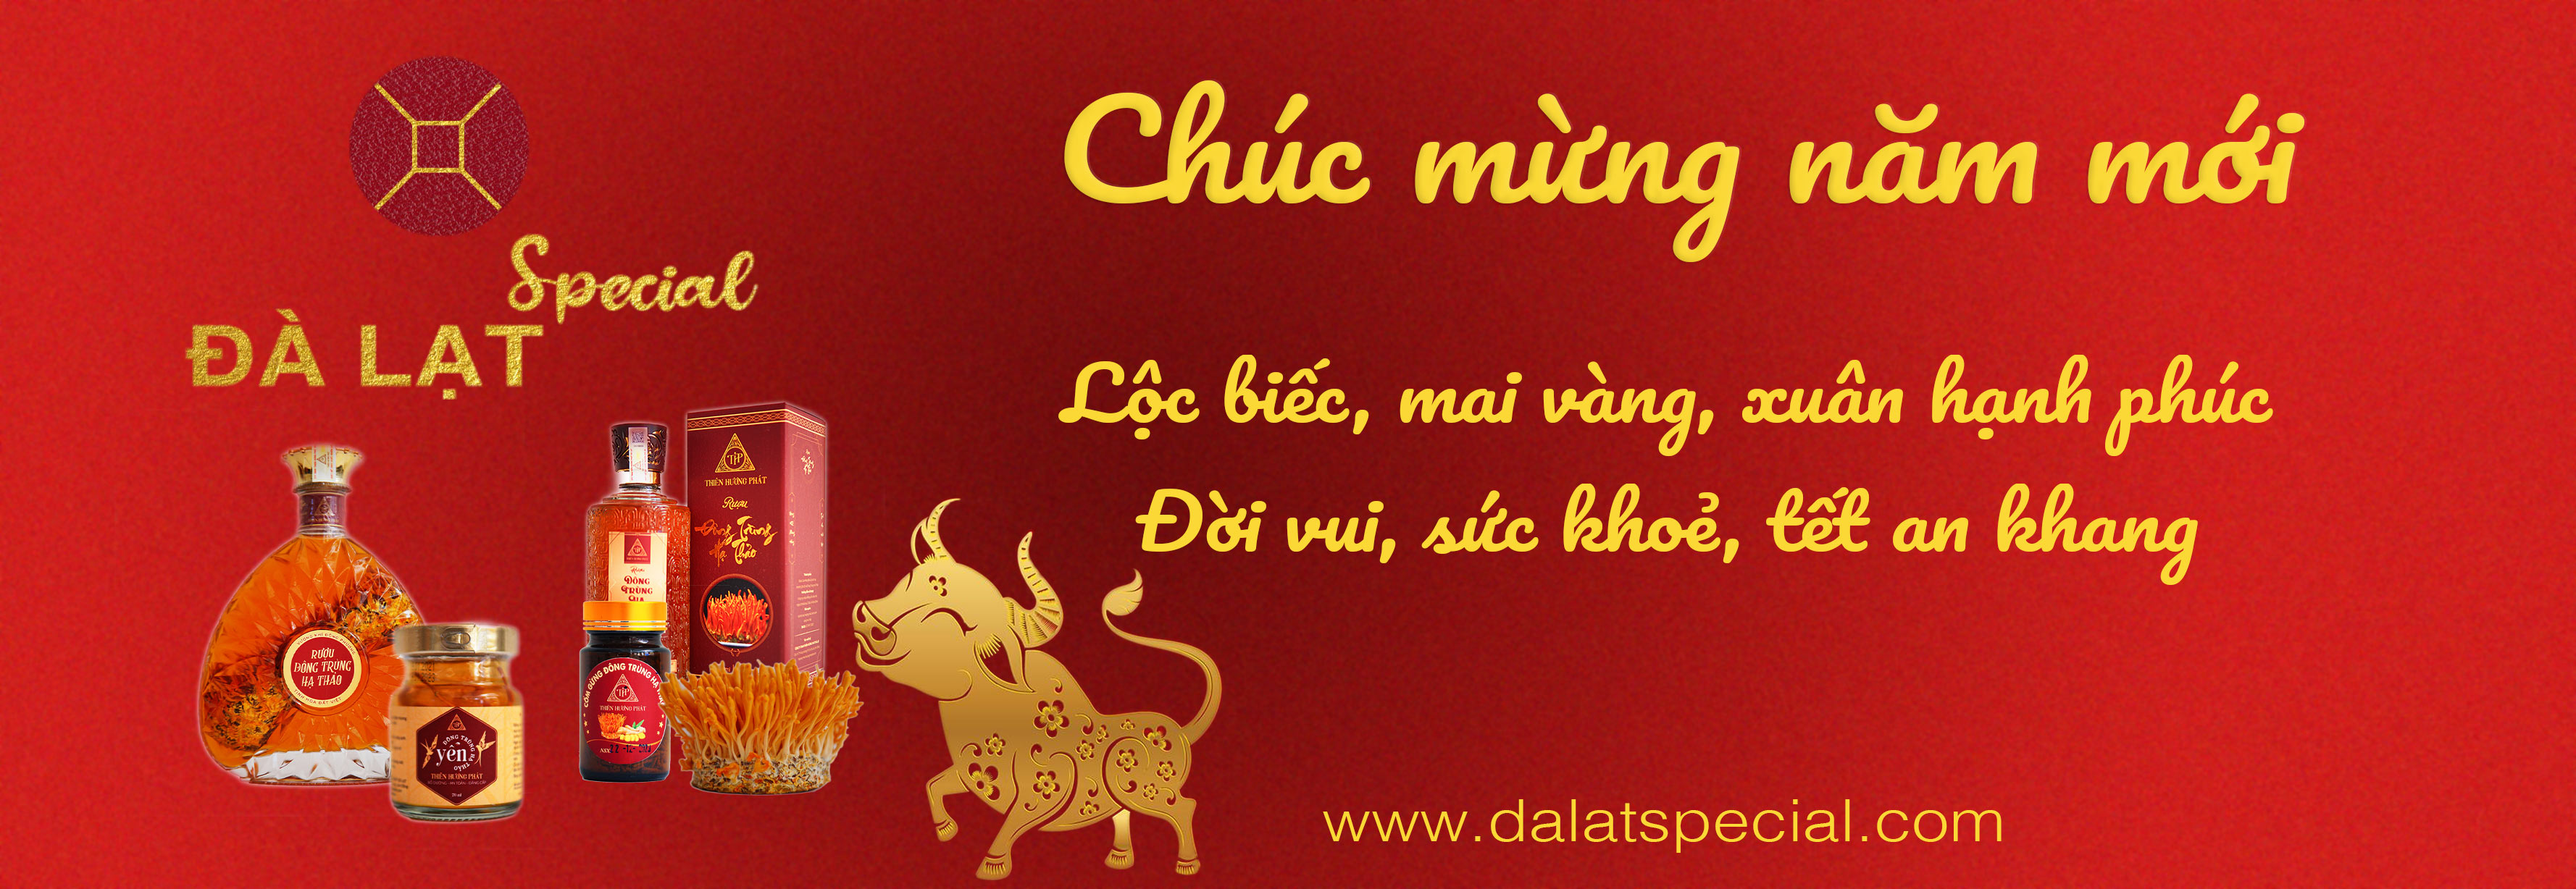
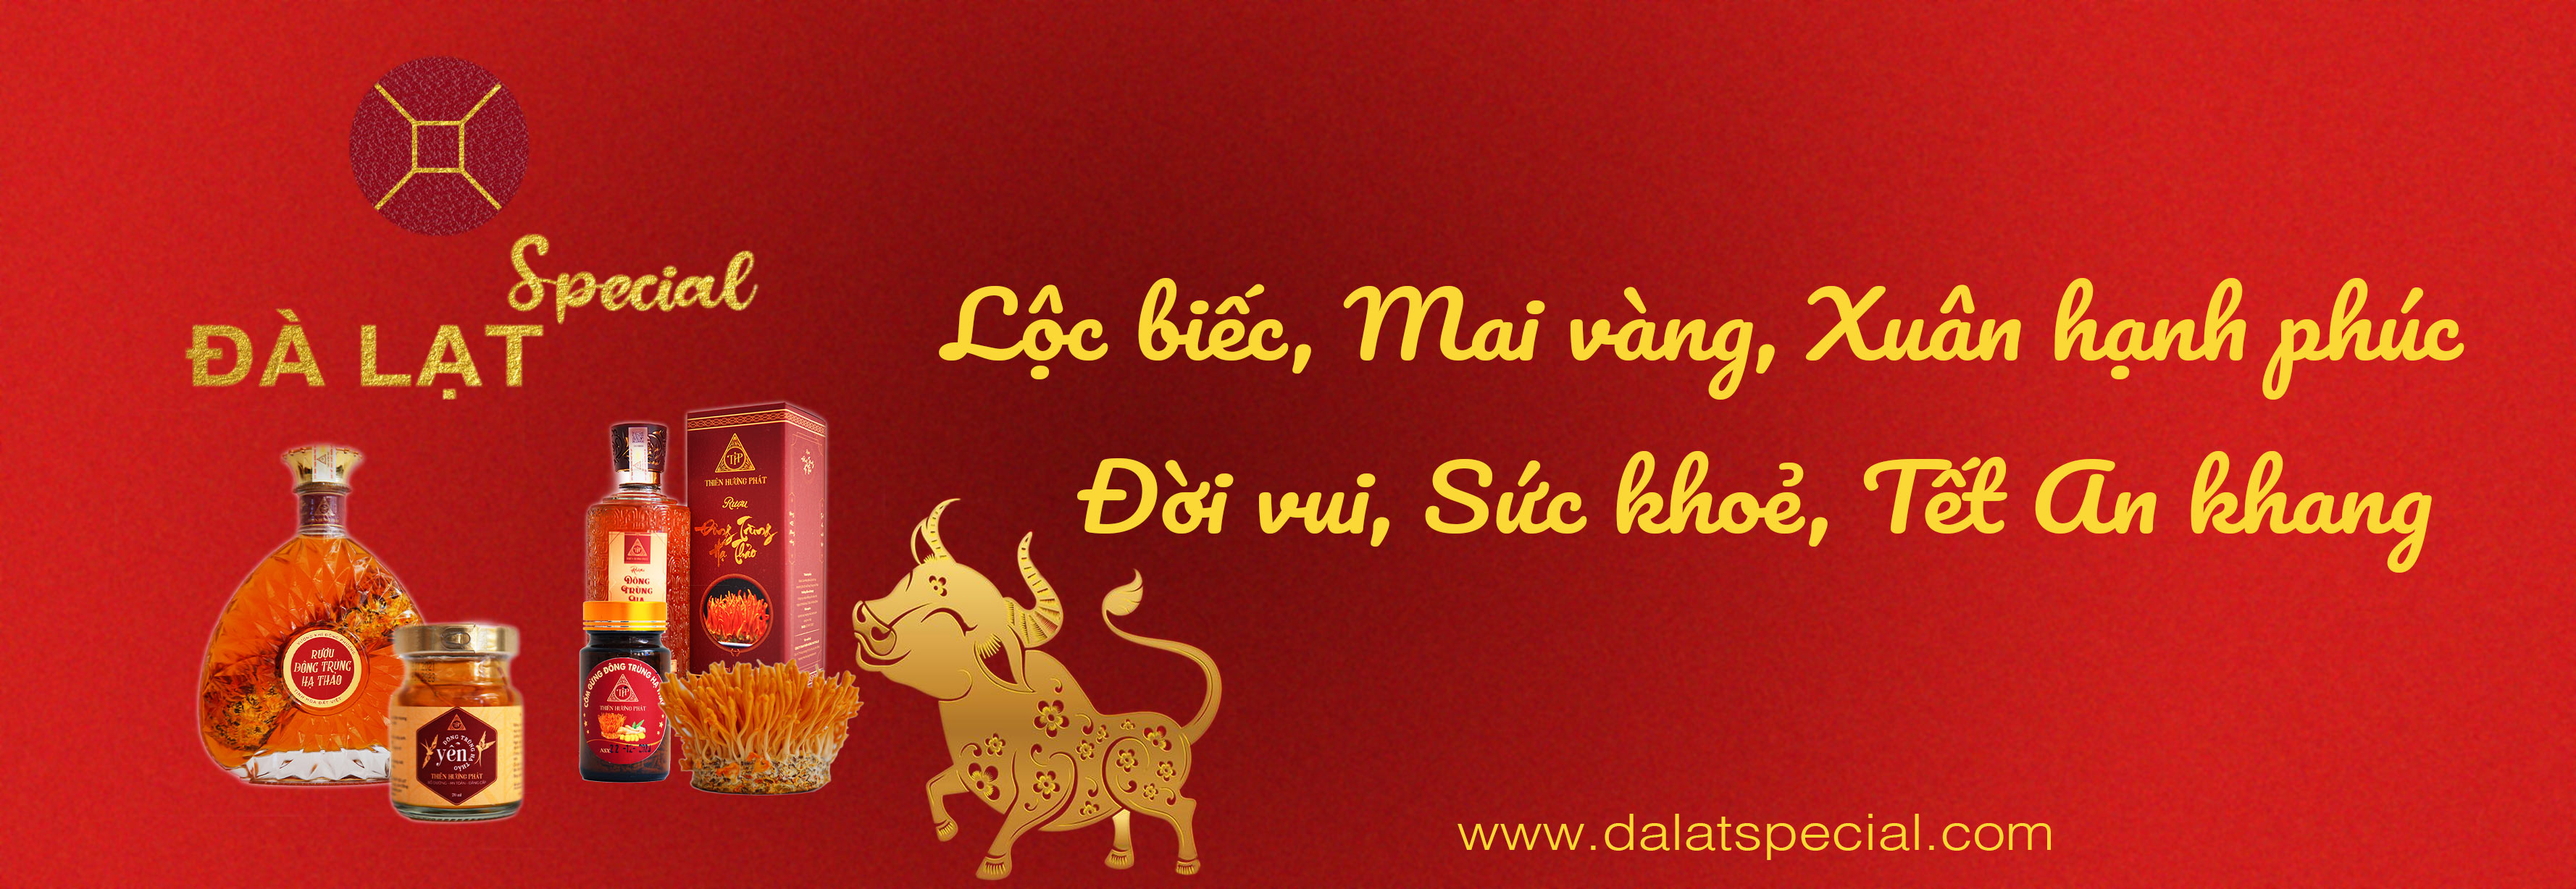
make it better

Changed region(s): [[0.3434, 0.3094, 0.9677, 0.6498], [0.4058, 0.0928, 0.9052, 0.3094], [0.4994, 0.8974, 0.8116, 0.9593]]

diff --git a/flutter_service_worker.js b/flutter_service_worker.js
@@ -4,8 +4,8 @@ const TEMP = 'flutter-temp-cache';
 const CACHE_NAME = 'flutter-app-cache';
 const RESOURCES = {
   "version.json": "204e0b6a186097846ca4fa036ac95964",
-"index.html": "787c9b3998667c5a546ab68957a882f4",
-"/": "787c9b3998667c5a546ab68957a882f4",
+"index.html": "4f3f4dfab2b5cf6f4fc10a00e5b7b117",
+"/": "4f3f4dfab2b5cf6f4fc10a00e5b7b117",
 "CNAME": "cb6cdcd0b3b8a19ff75a0889953eba3b",
 "main.dart.js": "195b4faa3aec97be5bf14d2b1e4dc760",
 "favicon_f.png": "5dcef449791fa27946b3d35ad8803796",
@@ -22,6 +22,7 @@ const RESOURCES = {
 ".git/objects/0c/0016e940b97c207a81813c5fe565d9ebdb0dcc": "dd6a18ac391ca7cec0ae126e4c286aa7",
 ".git/objects/50/760826c93d7b651589bf709b165ef517964b80": "87274105ba2e6e41dcd43ba958d50eb9",
 ".git/objects/03/1d189470eb335949fd5c245cc04b530b3c2bef": "bdab5a65cfd5a2caeb4b4a959b87b160",
+".git/objects/9b/5c8147501e07af082d830afd16bf4df7e392ac": "57e2c8cf820d1495c5f9b450e33fd682",
 ".git/objects/04/a3d1518cc6cccbd4790cff98062fb4875cfa7b": "f4cbb66fd8f6b3a218a0f5d7c25edea9",
 ".git/objects/04/6d68f5c49c98c04531cf3e4da37e91570e86e3": "d02ac3405686a31c30d0e152b74a42cf",
 ".git/objects/6a/32e87f8b6695c28cd239de1f92286150425702": "f82191077d333028a9ab802fa57bc498",
@@ -53,6 +54,7 @@ const RESOURCES = {
 ".git/objects/a2/c7fe137e8e454eb1a7a72359f624d3cbb945ab": "474418777c6bbbe153a53dd43c8c3991",
 ".git/objects/bd/1071bce24746aa9f38c028e0c36ca8bc24cf05": "7b2e333004b56cce67b5eb639db8292a",
 ".git/objects/d1/b488e06abf5921b694c1ab6d049f9c92237bb2": "0dc54b0d093ab80be5e8010741e1450a",
+".git/objects/bc/c1a72dcbe71667e42cd5d1b71186b4f582330a": "0601842832155aa118e39649a4b14896",
 ".git/objects/ab/0e98497a51ead7821d1da35a24968ff314e50f": "557c35fe3928eb2af403d1b3926bb9ba",
 ".git/objects/ab/d76199bd910e2286097bb163633e8f7dc25941": "5426b8b2bf45b2caa4297894113d0e11",
 ".git/objects/ab/9409050ddb6fab51970a72ba467bd8be0707c3": "19964d8e6296175f903ab6b79c27cbfe",
@@ -77,6 +79,7 @@ const RESOURCES = {
 ".git/objects/29/6764bca93eb43b5e8bad851549dbfe4a9a8fb0": "5c1dde917b651ca1a3ab337827b36125",
 ".git/objects/16/d45a5e764b5f6a334fae3626c4d1f2539d238f": "6c0077165f64ec7429d65d134a92e266",
 ".git/objects/16/d0966556aef27ab069badad5f89c50985cd6dc": "9ccbbeb9226b7a3e6bec41c1ecb41781",
+".git/objects/42/8030687f69977f5ca0105ee665cb969c9358c0": "b63d899237d9372a542e7fa108b567e1",
 ".git/objects/42/608fe88fc8eae4268b37fe506fb31f03e6321e": "ffa5b36939f47895893eac341aeffea8",
 ".git/objects/7b/a77a7ce9fb31ea31d12e73e9d556d6fd5c4a92": "317b47a61dbc34eb2741081bc5dde4d5",
 ".git/objects/8f/6c926c17f93f46760f27bea88ee76986c76321": "3ade98c4f31170934af89f9f6a43c9a6",
@@ -109,6 +112,7 @@ const RESOURCES = {
 ".git/objects/36/a0057e660c7697fba8d36bdf08e1d5ab173cc1": "f77985c225ab251f5404f660de77a1f5",
 ".git/objects/09/c11e7fd972e2ebb85af5a38c27de63bb23acac": "222e2b8843ff1bf61974d2c95405ceb6",
 ".git/objects/09/9e07fa1d1531bc661f9844392ff63f9f3e924b": "7c5870bab58983254216a92bc2aad779",
+".git/objects/09/7b6158eba9dd48f562fa3581b04cd259cc6dc5": "799acc8f260532abb77fca3f90324ecf",
 ".git/objects/65/af0923d7a54d31e7269cbd575edd75a56795c7": "ac4554a06cc79755c4ed671fb4717677",
 ".git/objects/98/d0943d50a76a47bf3827d337b55d12883ec440": "de798f0d51d2b08d295b2c5aa2048a7f",
 ".git/objects/3f/42d7b1f74002e7bbbd7a8c9d7dc31f1269b483": "82056dfb473595ca0f5310e9e5de2f04",
@@ -128,12 +132,14 @@ const RESOURCES = {
 ".git/objects/64/237470122058bd5ddbc544a2fac33d29c49a15": "dc8b5fca1dfaae79e8be8fe9f46356ea",
 ".git/objects/bf/3697233b2f9beb16e6eecbeaffebded39abd39": "81bad20e7c3231c2def03e785e8ab8b3",
 ".git/objects/bf/07178fde0172438452d4af88874f9b7582bf12": "04b425cd5c6cdb59f72d740fde7ae9cb",
+".git/objects/d3/455fbb4eb3ab9a7499064f78134877c3e6d3f7": "c80830402d2da66a3f010893d3c3b7fb",
 ".git/objects/d3/6648691da04fc9d60a706a31ddcd3806e173d4": "ac1a9108320051d0d026dd5138e84a23",
 ".git/objects/a7/ccbfc1ac24cd411f0975fecc68d18a129e65f6": "5e7f288be2107cd0a6b835dd3c65ec58",
 ".git/objects/b6/0a6d23ee719f9df7fee9a59147b6fdd1298a87": "007e2d3fe50bd8c7c82be82587abfefd",
 ".git/objects/a9/fc0a74ee73e9d801e505aecdf7ca9f52c69221": "1237bdab059c55835c9b826ea722ec54",
 ".git/objects/d5/edde938924991528cf1d05a7d4950ef5b833fc": "e7cc15b3daa1f1692c1d5a897beb20b2",
 ".git/objects/b7/49bfef07473333cf1dd31e9eed89862a5d52aa": "36b4020dca303986cad10924774fb5dc",
+".git/objects/db/3cd0245727e3e79e67727c5063ebfa594ff7da": "ae90f603983d2f09da1396f93701f28f",
 ".git/objects/db/96a513d29a66f0db1706bedb872c425fd6b81d": "5d2ab47b2d5f9e52b30b3861c8110a59",
 ".git/objects/a8/d787d3d98e6ca65c29e2a56d4a4af8786f1f06": "5e4b57f2e3afc03011906d6b79dae433",
 ".git/objects/a8/3a17d54b6dc2156c855c6580301cefc9c8d017": "6525101be8d70b808a809af9c83fa4ad",
@@ -151,6 +157,7 @@ const RESOURCES = {
 ".git/objects/fa/ab018b7ceb3a014f0b492bff9bc42a06d7091c": "45a2c2f96e39873dc39c65b72ba4053f",
 ".git/objects/ff/0171fede3fd7cbb60492ef9d38c549f275b70e": "e71c2ecb52a5eeca96b192fde9274b34",
 ".git/objects/c5/835a3cbc9033069620b8c946f11e16f251fe28": "6e71a4487b66f2d2e8fb06dd9cdea5ba",
+".git/objects/c2/9aef7b9c7d7e363a880202dbc66b96bfd3c7f5": "def206466e721fd3a98bf4830e1d17ff",
 ".git/objects/f6/a3eaace8120fc6240596a55ac19738cbc39f07": "d89a70bc7d3bb062921fcae989366036",
 ".git/objects/f1/ca3c68fc2afda09ea77002d1661dfef0c737ba": "0273c918ca03f6a3379f9f23c0f75a48",
 ".git/objects/f8/5c343b669f6eab95bfa1467cb68037dec96f96": "5c070319e95dc19104b742abbc524e2d",
@@ -171,6 +178,7 @@ const RESOURCES = {
 ".git/objects/8c/6d2f1e815f27a6e69a9660f9fccf98222d33a4": "e41a327890881e88d99ef6efe397cb87",
 ".git/objects/1d/02d859a021b82ee0c01fabe9e8b15172ff8b17": "e41197b93409ac1ded303e3cbcd1fc2d",
 ".git/objects/1d/6327bddcc8ec1b42642d23907e6e038dfa08d9": "6c81890f62c7695a5ba10744aa24e4c6",
+".git/objects/76/be65cc7b1ff269dc7595d7dd79928a9534ffc0": "0a1d75e712b71df68f7c3ccc5ad50508",
 ".git/objects/1c/9f4ac0f89fdf8ecf4c19e33e563a36bf3f3d9a": "8b1ebd79e7b8f67755afcc4d3295c009",
 ".git/objects/82/aa10338f5ba32b6e615bf0f1390668b086a123": "13c1655115a1def2e44a61fa1ce49116",
 ".git/objects/49/99ad6803341caff07a91fedb87e4be80c6ce65": "2299e40790fddb854949390e0c43564b",
@@ -182,12 +190,13 @@ const RESOURCES = {
 ".git/objects/7f/65a68946ceb891185c9827affed263e01c72fe": "40b176ea01de143a235b497237606568",
 ".git/objects/7a/1e5dd0a73961aadf8fea29d6f752f028a0b925": "6c747a9792d39a184282bad1d249cf05",
 ".git/objects/14/d7ee96e6b05feb7aeb6bd23b41c98b62c30086": "7dc50cf3c9f03d8dbab7798ad7aa8759",
+".git/objects/8e/7ed170b8c18b99b0822dfc2d2d59f65ed449b8": "00b50e5e792c0ed69802ea1dfba424a3",
 ".git/objects/8e/66daabde1b1c3cfd07a8ec5069bd01c3b045f1": "2b546961c93224e9960c5e0968d25e3e",
 ".git/HEAD": "4cf2d64e44205fe628ddd534e1151b58",
 ".git/info/exclude": "036208b4a1ab4a235d75c181e685e5a3",
-".git/logs/HEAD": "5d0a6e746dbce7adf0a59206dbde4d24",
-".git/logs/refs/heads/master": "5d0a6e746dbce7adf0a59206dbde4d24",
-".git/logs/refs/remotes/origin/master": "59dd2051e5e28346a2097f742ad85d11",
+".git/logs/HEAD": "e763285e35a1b88a21fdd1a94d3c8de7",
+".git/logs/refs/heads/master": "e763285e35a1b88a21fdd1a94d3c8de7",
+".git/logs/refs/remotes/origin/master": "9d51a96b1ff0984cbabd5a13658edbbc",
 ".git/description": "a0a7c3fff21f2aea3cfa1d0316dd816c",
 ".git/hooks/commit-msg.sample": "579a3c1e12a1e74a98169175fb913012",
 ".git/hooks/pre-rebase.sample": "56e45f2bcbc8226d2b4200f7c46371bf",
@@ -201,17 +210,17 @@ const RESOURCES = {
 ".git/hooks/pre-applypatch.sample": "054f9ffb8bfe04a599751cc757226dda",
 ".git/hooks/pre-push.sample": "2c642152299a94e05ea26eae11993b13",
 ".git/hooks/update.sample": "647ae13c682f7827c22f5fc08a03674e",
-".git/refs/heads/master": "a8809fd946684e840248d88110cd9ed6",
-".git/refs/remotes/origin/master": "a8809fd946684e840248d88110cd9ed6",
-".git/index": "52b717f8a3da10d94fb100060cecae39",
-".git/COMMIT_EDITMSG": "f5f953bc61a34f60016fa6b7bb3a9d4c",
+".git/refs/heads/master": "4d1d0740edb21888d61d5553a2de17f2",
+".git/refs/remotes/origin/master": "4d1d0740edb21888d61d5553a2de17f2",
+".git/index": "8aba756ad88c0230689f96a76f8c0c0e",
+".git/COMMIT_EDITMSG": "df645a381842484e5aeb35fab6c59778",
 ".git/FETCH_HEAD": "f7dba43b3fb95dad09c283f2c7589de2",
 "assets/AssetManifest.json": "315d46858df119608d5d37f7b43215fd",
 "assets/NOTICES": "5cfed82310bd37e5569b41f8197225aa",
 "assets/FontManifest.json": "dc3d03800ccca4601324923c0b1d6d57",
 "assets/packages/cupertino_icons/assets/CupertinoIcons.ttf": "6d342eb68f170c97609e9da345464e5e",
 "assets/fonts/MaterialIcons-Regular.otf": "1288c9e28052e028aba623321f7826ac",
-"assets/upload/images/banner_tet.jpg": "a62e049be2810fff77d6aba941c5a817",
+"assets/upload/images/banner_tet.jpg": "2c28700b2fd839c8d3e3d70ac59b3347",
 "assets/upload/images/zalo.png": "fa9bb40c4819ad90ad43c8e157950c7f",
 "assets/upload/images/dalatspecial_icon.png": "a86fd4e865e02f606d58c7ee30b7d832",
 "assets/upload/images/dalatspecial.png": "aee2ab35822dcdef839ebbe6e4034422",

diff --git a/index.html b/index.html
@@ -36,7 +36,7 @@
   <script>
     if ('serviceWorker' in navigator) {
       window.addEventListener('flutter-first-frame', function () {
-        navigator.serviceWorker.register('flutter_service_worker.js?v=2307623475');
+        navigator.serviceWorker.register('flutter_service_worker.js?v=1238598097');
       });
     }
   </script>
